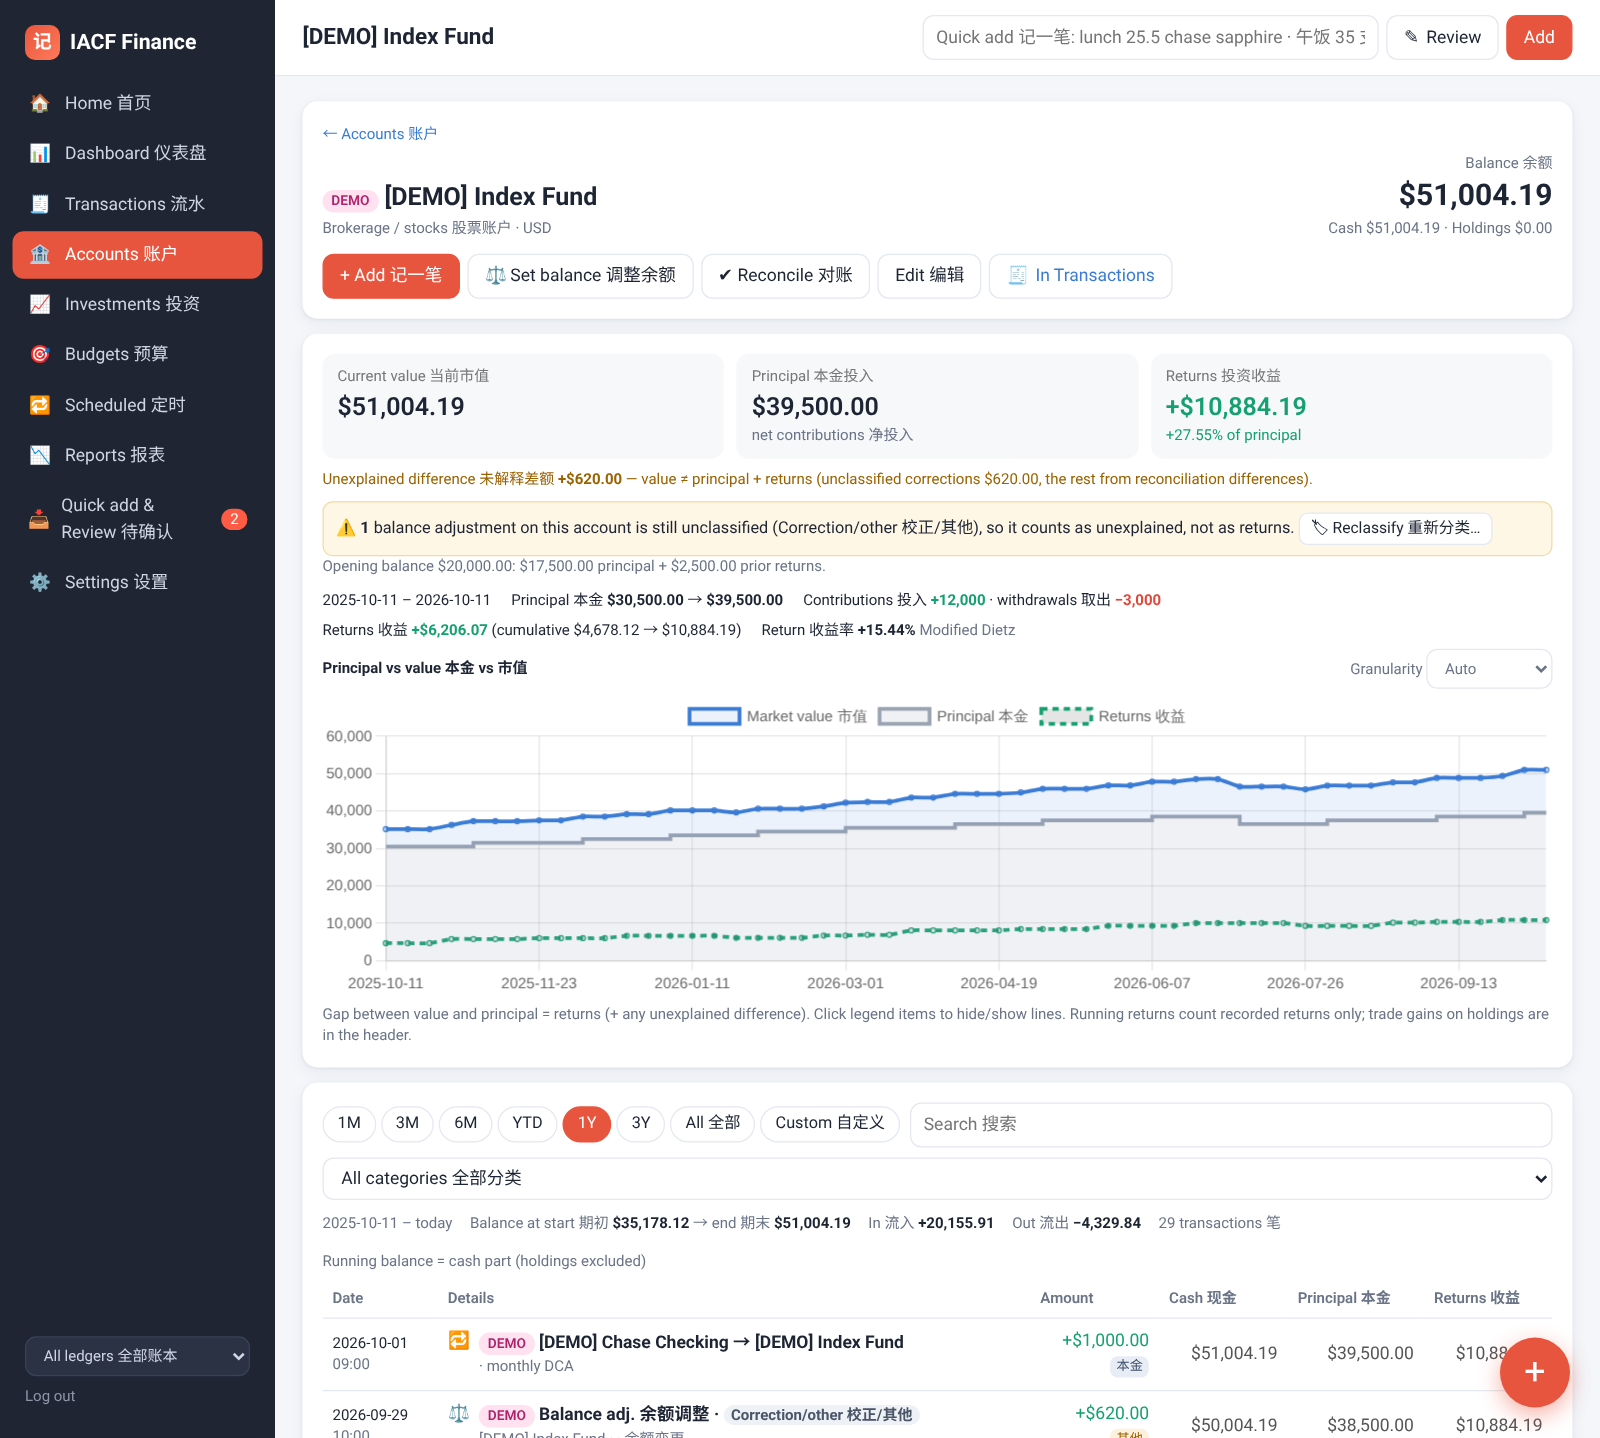
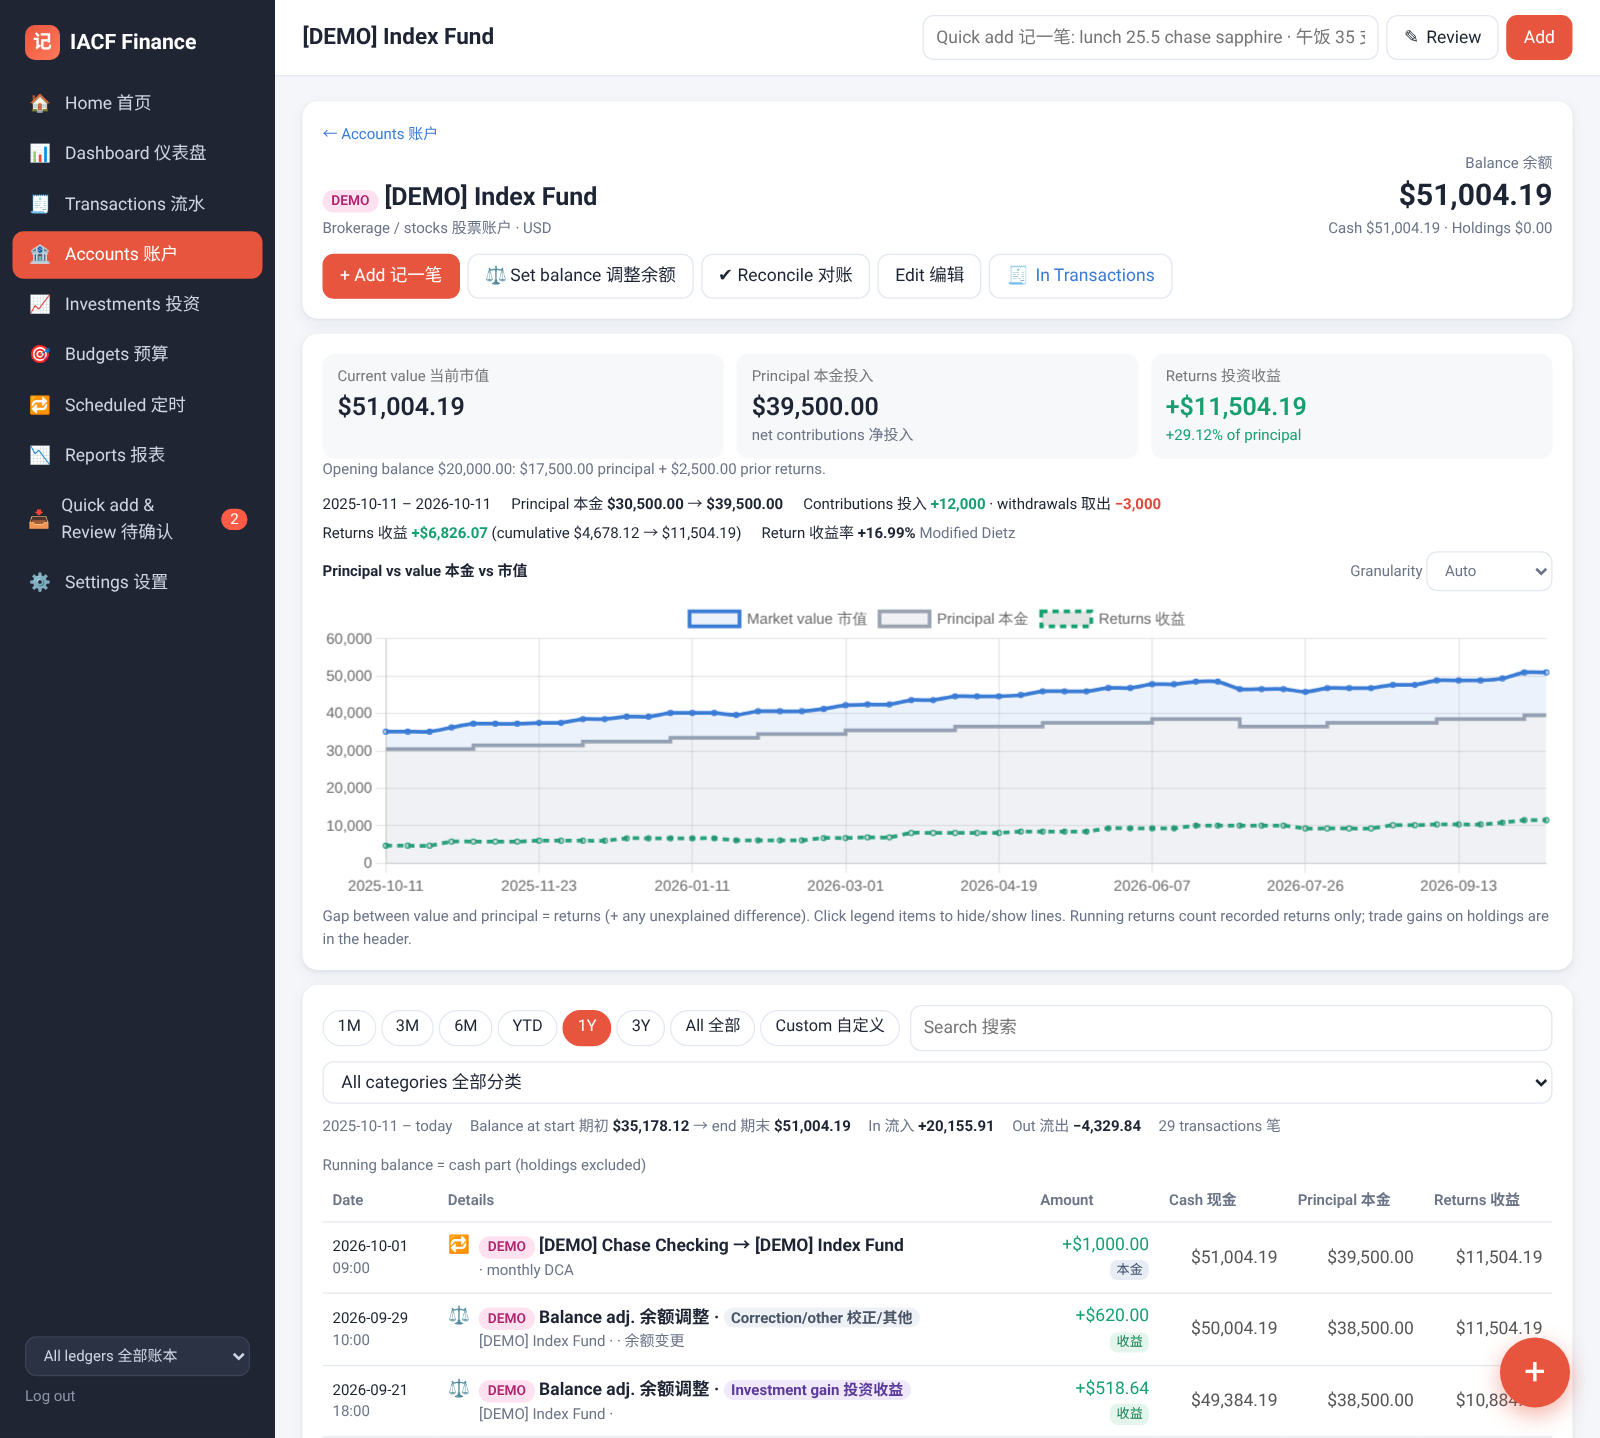
Investment accounts: unclassified balance adjustments count as returns (gain/loss) by default

diff --git a/static/js/06_home.js b/static/js/06_home.js
@@ -149,8 +149,8 @@ function invSection(h, a, id) {
       <div class="ic"><div class="lbl">Principal 本金投入</div><div class="val">${money(x.principal, cur)}</div><div class="small muted">net contributions 净投入</div></div>
       <div class="ic"><div class="lbl">Returns 投资收益</div><div class="val ${x.returns < 0 ? 'neg' : x.returns > 0 ? 'pos' : ''}">${sgn(x.returns, cur)}</div><div class="small ${x.returns < 0 ? 'neg' : 'pos'}">${pctS(x.returns_pct)} of principal</div></div>
     </div>
-    ${Math.abs(x.unexplained) >= 0.01 ? `<div class="small inv-unexp">Unexplained difference 未解释差额 <b>${sgn(x.unexplained, cur)}</b> — value ≠ principal + returns (unclassified corrections ${money(x.unclassified_corrections, cur)}, the rest from reconciliation differences).</div>` : ''}
-    ${x.correction_count ? `<div class="inv-hint">⚠ <b>${x.correction_count}</b> balance adjustment${x.correction_count > 1 ? 's' : ''} on this account ${x.correction_count > 1 ? 'are' : 'is'} still unclassified (Correction/other 校正/其他), so ${x.correction_count > 1 ? 'they count' : 'it counts'} as unexplained, not as returns. <button class="btn sm" id="ahReclass">🏷 Reclassify 重新分类…</button></div>` : ''}
+    ${Math.abs(x.unexplained) >= 0.01 ? `<div class="small inv-unexp">Unexplained difference 未解释差额 <b>${sgn(x.unexplained, cur)}</b> — value ≠ principal + returns${x.unclassified_corrections ? ` (${money(x.unclassified_corrections, cur)} from transactions marked Other 其他; the rest from reconciliation differences)` : ' (from reconciliation differences)'}.</div>` : ''}
+    ${x.likely_opening_count ? `<div class="inv-hint">💡 This account's first record (${money(x.likely_opening_amount, cur)}) is an unclassified balance adjustment, so it counts as returns. If it was really the starting balance, mark it as <i>Opening balance</i> so it counts as principal. <button class="btn sm" id="ahReclass">🏷 Reclassify 重新分类…</button></div>` : ''}
     ${x.opening_returns ? `<div class="small muted">Opening balance ${money(x.opening_total, cur)}: ${money(x.opening_total - x.opening_returns, cur)} principal + ${money(x.opening_returns, cur)} prior returns.</div>` : ''}
     <div class="inv-period small" id="ahInvSum"></div>
     <div class="row inv-ctl"><b class="small">Principal vs value 本金 vs 市值</b><span class="sp"></span>

diff --git a/static/js/03_pages.js b/static/js/03_pages.js
@@ -22,7 +22,7 @@ function pctTxt(p) { return p === null || p === undefined ? '' : ` (${p >= 0 ? '
 function prLine(x) {
   const r = x.returns;
   return `Principal 本金 ${money(x.principal, x.currency)} · Returns 收益 <span class="${r < 0 ? 'neg' : r > 0 ? 'pos' : ''}">${r >= 0 ? '+' : '−'}${money(Math.abs(r), x.currency)}${pctTxt(x.returns_pct)}</span>`
-    + (Math.abs(x.unexplained || 0) >= 0.01 ? ` · <span class="muted" title="Value − principal − returns: unclassified corrections / reconciliation differences">unexplained 未解释 ${money(x.unexplained, x.currency)}</span>` : '');
+    + (Math.abs(x.unexplained || 0) >= 0.01 ? ` · <span class="muted" title="Value − principal − returns: reconciliation differences / transactions marked Other">unexplained 未解释 ${money(x.unexplained, x.currency)}</span>` : '');
 }
 function groupTotal(n) {
   const base = n.currency;

diff --git a/tests/test_principal_returns.py b/tests/test_principal_returns.py
@@ -52,29 +52,51 @@ def test_transfer_between_investment_accounts_moves_principal(client):
     assert g["invest"]["principal"] == 1050 and g["invest"]["unexplained"] == 0
 
 
-def test_corrections_unexplained_overrides_and_opening_split(client):
+def test_corrections_count_as_returns_overrides_and_opening_split(client):
     A, B, C = setup(client)
-    cor = tx(client, kind="adjustment", account_id=A, amount=40)  # unclassified correction -> other
+    cor = tx(client, kind="adjustment", account_id=A, amount=40)  # no reason (like imported 余额变更) -> returns
     x = inv(client, A)
-    assert x["unexplained"] == 40 and x["correction_count"] == 1 and x["principal"] == 1000 and x["returns"] == 0
+    assert (x["principal"], x["returns"], x["unexplained"], x["correction_count"]) == (1000, 40, 0, 1)
+    tx(client, kind="adjustment", account_id=A, amount=-15, adj_reason="correction")  # explicit Correction -> returns
+    tx(client, kind="adjustment", account_id=A, amount=30, adj_reason="unrecorded_income")  # stays principal
+    x = inv(client, A)
+    assert (x["principal"], x["returns"], x["unexplained"]) == (1030, 25, 0)
     h = client.get(f"/api/accounts/{A}/history?period=ALL").json()
-    assert h["invest"]["correction_count"] == 1
-    assert next(t for t in h["items"] if t["id"] == cor["id"])["pr_badge"] == "其他"
-    # the account-only reclassify preview lists it (read-only)
-    pv = client.get(f"/api/adjustments/reclassify?account_ids={A}&only=1").json()
-    assert {r["account_id"] for r in pv["rows"]} == {A}
-    # override: mark it as returns
-    client.put(f"/api/transactions/{cor['id']}", json={"pr_class": "returns"})
+    row = next(t for t in h["items"] if t["id"] == cor["id"])
+    assert row["pr_badge"] == "收益" and "auto" in row["pr_label"]
+    assert h["invest"]["likely_opening_count"] == 0  # first record is the real opening balance
+    # override: mark it as principal / other (other = genuine unexplained gap)
+    client.put(f"/api/transactions/{cor['id']}", json={"pr_class": "principal"})
+    assert (inv(client, A)["principal"], inv(client, A)["returns"]) == (1070, -15)
+    client.put(f"/api/transactions/{cor['id']}", json={"pr_class": "other"})
     x = inv(client, A)
-    assert (x["returns"], x["unexplained"], x["correction_count"]) == (40, 0, 0)
-    # a deposit marked as returns instead of principal
+    assert (x["principal"], x["returns"], x["unexplained"]) == (1030, -15, 40)
+    client.put(f"/api/transactions/{cor['id']}", json={"pr_class": "auto"})
+    assert inv(client, A)["unexplained"] == 0
     d = tx(client, kind="income", account_id=A, amount=10, pr_class="returns")
-    assert inv(client, A)["returns"] == 50 and d["pr_class"] == "returns"
+    assert inv(client, A)["returns"] == 35 and d["pr_class"] == "returns"
     assert client.post("/api/transactions", json={"kind": "income", "account_id": A, "amount": 1, "pr_class": "bogus"}).status_code == 400
     # opening split: 200 of the 1000 opening balance were prior returns
     client.put(f"/api/accounts/{A}", json={"opening_returns": 200})
     x = inv(client, A)
-    assert (x["principal"], x["returns"], x["unexplained"]) == (800, 250, 0)
+    assert (x["principal"], x["returns"], x["unexplained"]) == (830, 235, 0)
+
+
+def test_first_unclassified_record_hint_and_reconciliation_gap(client):
+    r = client.post("/api/accounts", json={"name": "Imported Fund", "type": "brokerage", "currency": "USD"}).json()
+    A = r["id"]
+    first = tx(client, kind="adjustment", account_id=A, amount=5000, date="2026-01-05")  # imported starting balance
+    tx(client, kind="adjustment", account_id=A, amount=250, date="2026-02-05")
+    h = client.get(f"/api/accounts/{A}/history?period=ALL").json()["invest"]
+    assert (h["principal"], h["returns"], h["likely_opening_count"], h["likely_opening_amount"]) == (0, 5250, 1, 5000)
+    client.put(f"/api/transactions/{first['id']}", json={"adj_reason": "opening"})  # what Reclassify would do
+    h = client.get(f"/api/accounts/{A}/history?period=ALL").json()["invest"]
+    assert (h["principal"], h["returns"], h["likely_opening_count"]) == (5000, 250, 0)
+    # a reconciliation checkpoint that differs from the ledger is a genuine gap -> unexplained
+    rr = client.post(f"/api/accounts/{A}/reconcile", json={"balance": 5300, "as_of": "2026-03-01", "accept": True})
+    assert rr.status_code == 200, rr.text
+    x = inv(client, A)
+    assert x["value"] == 5300 and x["unexplained"] == 50
 
 
 def test_trades_dividends_period_and_chart(client):

diff --git a/app/principal.py b/app/principal.py
@@ -7,12 +7,13 @@ For one account (amounts in the account's currency):
                + refunds − expenses/withdrawals
                + balance adjustments with reason Opening balance / Unrecorded income / Unrecorded spending
 * returns    = prior returns in the opening balance (accounts.opening_returns)
-               + adjustments with reason Investment gain/loss, Interest, Fees (negative)
+               + adjustments with reason Investment gain/loss, Interest, Fees (negative), and — automatically —
+                 unclassified balance adjustments (Correction/other or no reason, e.g. imported 余额变更)
                + dividends − investment fees + income whose category is interest/dividend/investment income
                + trade gains on holdings (realized + unrealized) = holdings market value − buys + sells
-* other      = unclassified balance adjustments (Correction/other, e.g. imported 余额变更 not yet reclassified)
+* other      = only transactions explicitly overridden as 'other' (excluded from principal and returns)
 * value      = the account balance (cash anchored at reconciliation checkpoints + holdings at market value)
-* unexplained difference = value − principal − returns  (unclassified corrections + reconciliation jumps)
+* unexplained difference = value − principal − returns  (reconciliation jumps and 'other' overrides only)
 Any transaction can be overridden with transactions.pr_class = 'principal' | 'returns' | 'other' (NULL = automatic).
 """
 from __future__ import annotations
@@ -33,7 +34,7 @@ LABELS = {
     "opening": "Opening balance 期初", "refund": "Refund 退款", "unrecorded": "Unrecorded flow 未记收支",
     "gain": "Gain/loss 投资收益", "interest": "Interest 利息", "fees": "Fees 费用", "dividend": "Dividend 股息",
     "invest_fee": "Investment fee 投资费用", "income_return": "Investment income 投资收入",
-    "correction": "Unclassified correction 未分类校正", "trade": "Trade 交易", "override": "Set manually 手动",
+    "correction": "Other 其他", "adj_auto": "Balance adj. → gain/loss (auto) 余额调整计入收益", "trade": "Trade 交易", "override": "Set manually 手动",
 }
 BADGE = {"principal": "本金", "returns": "收益", "other": "其他", "trade": "交易"}
 
@@ -78,7 +79,7 @@ def classify(r: dict, aid: int, inv_ids: set | None = None) -> tuple[str, str]:
             return "principal", "opening"
         if reason in ("unrecorded_spending", "unrecorded_income"):
             return "principal", "unrecorded"
-        return "other", "correction"
+        return "returns", "adj_auto"  # Correction/other or no reason (e.g. imported 余额变更): a change in value
     return "other", "correction"
 
 
@@ -134,7 +135,7 @@ def summary(acct: dict, w: dict) -> dict:
 
 
 def correction_counts(db: Database, ids: list[int]) -> dict[int, int]:
-    """Unclassified (Correction/other) balance adjustments per account that would count as 'other'."""
+    """Unclassified (Correction/other) balance adjustments per account (counted as returns automatically)."""
     if not ids:
         return {}
     q = ",".join("?" * len(ids))
@@ -243,7 +244,11 @@ def history_extras(db: Database, acct: dict, page_items: list[dict], start, end,
     if not first_page:
         return None
     cc = correction_counts(db, [acct["id"]]).get(acct["id"], 0)
-    return {**summary(full, w), "correction_count": cc,
+    from .returns import reclassify_preview
+    likely_opening = [r for r in reclassify_preview(db, account_ids=[acct["id"]], only=True)["rows"]
+                      if r["proposed_reason"] == "opening" and r.get("pr_class") in (None, "")]
+    return {**summary(full, w), "correction_count": cc, "likely_opening_count": len(likely_opening),
+            "likely_opening_amount": round(sum(r["amount"] for r in likely_opening), 2) + 0.0,
             "period": period_figures(db, full, w, start, end, today),
             "series": investment_series(db, full, start, end, "auto", today, w),
             "running_note": "Running returns count recorded returns only; trade gains on holdings are in the header."}

diff --git a/app/returns.py b/app/returns.py
@@ -332,7 +332,7 @@ def reclassify_preview(db: Database, include_savings: bool = False, account_ids:
     acond = f"a.type IN ({tq})" + (f" OR a.id IN ({','.join('?' * len(extra))})" if extra else "")
     if only and extra:  # just these accounts (account detail page hint)
         acond = f"a.id IN ({','.join('?' * len(extra))})"
-    rows = db.all(f"""SELECT t.id, t.date, t.amount, t.currency, t.note, t.source, t.account_id, a.name account_name,
+    rows = db.all(f"""SELECT t.id, t.date, t.amount, t.currency, t.note, t.source, t.pr_class, t.account_id, a.name account_name,
         a.type account_type, {REASON_SQL} reason FROM transactions t JOIN accounts a ON a.id=t.account_id
         LEFT JOIN categories c ON c.id=t.category_id
         WHERE t.kind='adjustment' AND t.status='posted' AND ({acond}) ORDER BY a.name, t.date, t.id""", extra)

diff --git a/README.md b/README.md
@@ -469,14 +469,16 @@ contributions) and **returns**.
   *Employer match 雇主匹配*) + refunds − withdrawals/expenses + adjustments with reason *Opening balance* or
   *Unrecorded income/spending*. A transfer between two investment accounts moves principal from one to the other.
 * **Returns** = prior returns in the opening balance + adjustments with reason *Investment gain/loss*, *Interest*
-  or *Fees* (negative) + dividends − investment fees + income in an interest/dividend category + trade gains on
+  or *Fees* (negative) + **unclassified balance adjustments** (*Correction/other* or no reason, e.g. imported
+  余额变更: on an investment account a balance change is a gain/loss) + dividends − investment fees + income in an interest/dividend category + trade gains on
   holdings (realized + unrealized = market value − buys + sells).
 * **Current value 当前市值** = the account balance (cash + holdings at market value). If it is not equal to
-  principal + returns, the **unexplained difference 未解释差额** is shown. It comes from unclassified balance
-  adjustments (*Correction/other*, e.g. imported 余额变更) and reconciliation differences.
-  * Unclassified corrections count as returns **only after** you run **Investments → 🏷 Reclassify**.
-  * The account page shows a hint with a button that opens the tool for just that account.
-  * Nothing is changed automatically.
+  principal + returns, the **unexplained difference 未解释差额** is shown. It only comes from genuine gaps:
+  reconciliation differences and transactions you marked *Other*.
+  * If an account's **first** record is an unclassified adjustment (an export usually has no opening balance), it
+    counts as returns. The account page shows a hint with a button that opens **🏷 Reclassify** for that account,
+    so you can mark it as *Opening balance* (principal).
+  * This is computation only: no data is changed.
 * **Overrides:** the transaction form has *Investment: counts as 计入* (Auto / Principal / Returns / Other).
   The account form has *Prior returns in opening balance* (default 0, so the whole opening balance is principal).
 
